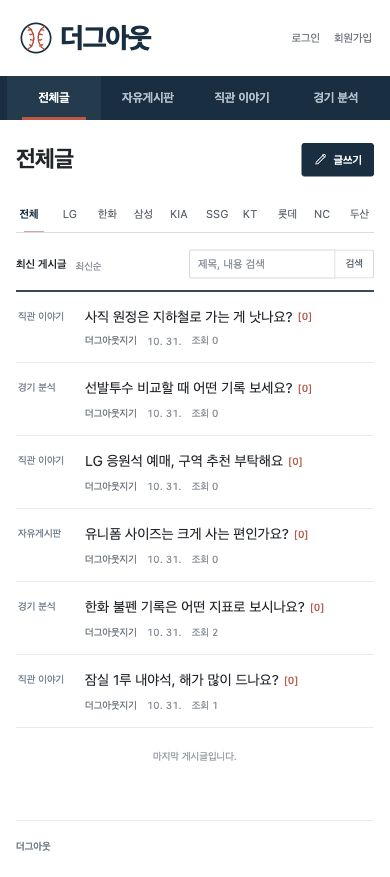
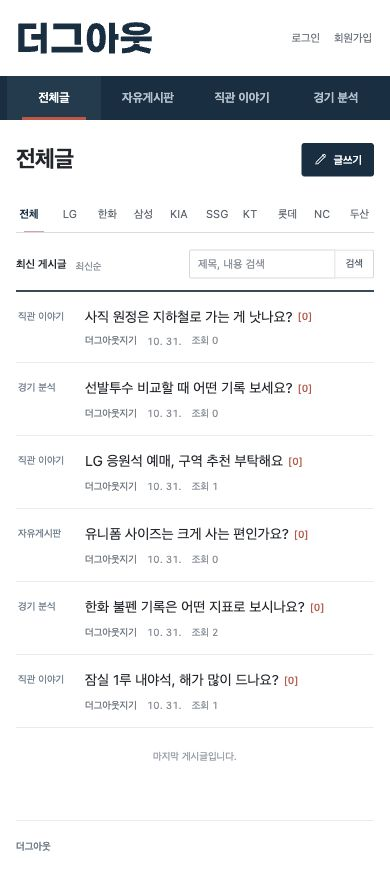
fix: 야구공 제거 및 Gmarket Sans 글자 로고 적용

Changed region(s): [[0.0308, 0.0, 0.4, 0.0616]]

diff --git a/community-FE/js/baseball.js b/community-FE/js/baseball.js
@@ -129,7 +129,7 @@ function renderHeader() {
   const links = [["", "전체글"], ...Object.entries(boards)];
   document.querySelector("#site-header").className = "site-header";
   document.querySelector("#site-header").innerHTML = `<div class="header-inner">
-    <a class="brand" href="/" aria-label="더그아웃 홈"><img src="/public/dugout.svg?v=20261031-3" alt=""><strong>더그아웃</strong></a>
+    <a class="brand" href="/" aria-label="더그아웃 홈"><img class="brand-wordmark" src="/public/dugout-wordmark.svg?v=20261031-4" alt="더그아웃" width="148" height="35"></a>
     <div class="account">${user ? `<a href="/html/modifyInfo.html">${escape(user.nickname)}</a><button id="logout" type="button">로그아웃</button>` : '<a href="/html/login.html">로그인</a><a href="/html/signup.html">회원가입</a>'}</div>
     </div><div class="nav-band"><nav class="top-nav" aria-label="게시판">${links.map(([value, label]) => `<a href="${boardUrl(value)}" ${page === "home" && selectedBoard() === value ? 'class="active" aria-current="page"' : ""}>${label}</a>`).join("")}</nav></div>`;
   document.querySelector("#logout")?.addEventListener("click", () => {

diff --git a/community-FE/html/modifyInfo.html b/community-FE/html/modifyInfo.html
@@ -9,10 +9,14 @@
       content="자유게시판, 직관 이야기, 경기 분석을 나누는 야구 커뮤니티."
     />
     <title>더그아웃</title>
-    <link rel="icon" href="/public/dugout.svg?v=20261031-3" type="image/svg+xml" />
-    <link rel="stylesheet" href="/css/baseball.css?v=20261031-3" />
+    <link
+      rel="icon"
+      href="/public/dugout.svg?v=20261031-4"
+      type="image/svg+xml"
+    />
+    <link rel="stylesheet" href="/css/baseball.css?v=20261031-4" />
     <script src="/config.js"></script>
-    <script type="module" src="/js/baseball.js?v=20261031-3"></script>
+    <script type="module" src="/js/baseball.js?v=20261031-4"></script>
   </head>
   <body data-page="profile">
     <a class="skip-link" href="#main">본문으로 건너뛰기</a>

diff --git a/community-FE/html/modifyPassword.html b/community-FE/html/modifyPassword.html
@@ -9,10 +9,14 @@
       content="자유게시판, 직관 이야기, 경기 분석을 나누는 야구 커뮤니티."
     />
     <title>더그아웃</title>
-    <link rel="icon" href="/public/dugout.svg?v=20261031-3" type="image/svg+xml" />
-    <link rel="stylesheet" href="/css/baseball.css?v=20261031-3" />
+    <link
+      rel="icon"
+      href="/public/dugout.svg?v=20261031-4"
+      type="image/svg+xml"
+    />
+    <link rel="stylesheet" href="/css/baseball.css?v=20261031-4" />
     <script src="/config.js"></script>
-    <script type="module" src="/js/baseball.js?v=20261031-3"></script>
+    <script type="module" src="/js/baseball.js?v=20261031-4"></script>
   </head>
   <body data-page="profile">
     <a class="skip-link" href="#main">본문으로 건너뛰기</a>

diff --git a/community-FE/html/signup.html b/community-FE/html/signup.html
@@ -9,10 +9,14 @@
       content="자유게시판, 직관 이야기, 경기 분석을 나누는 야구 커뮤니티."
     />
     <title>더그아웃</title>
-    <link rel="icon" href="/public/dugout.svg?v=20261031-3" type="image/svg+xml" />
-    <link rel="stylesheet" href="/css/baseball.css?v=20261031-3" />
+    <link
+      rel="icon"
+      href="/public/dugout.svg?v=20261031-4"
+      type="image/svg+xml"
+    />
+    <link rel="stylesheet" href="/css/baseball.css?v=20261031-4" />
     <script src="/config.js"></script>
-    <script type="module" src="/js/baseball.js?v=20261031-3"></script>
+    <script type="module" src="/js/baseball.js?v=20261031-4"></script>
   </head>
   <body data-page="signup">
     <a class="skip-link" href="#main">본문으로 건너뛰기</a>

diff --git a/community-FE/html/board-write.html b/community-FE/html/board-write.html
@@ -9,10 +9,14 @@
       content="자유게시판, 직관 이야기, 경기 분석을 나누는 야구 커뮤니티."
     />
     <title>더그아웃</title>
-    <link rel="icon" href="/public/dugout.svg?v=20261031-3" type="image/svg+xml" />
-    <link rel="stylesheet" href="/css/baseball.css?v=20261031-3" />
+    <link
+      rel="icon"
+      href="/public/dugout.svg?v=20261031-4"
+      type="image/svg+xml"
+    />
+    <link rel="stylesheet" href="/css/baseball.css?v=20261031-4" />
     <script src="/config.js"></script>
-    <script type="module" src="/js/baseball.js?v=20261031-3"></script>
+    <script type="module" src="/js/baseball.js?v=20261031-4"></script>
   </head>
   <body data-page="write">
     <a class="skip-link" href="#main">본문으로 건너뛰기</a>

diff --git a/community-FE/html/login.html b/community-FE/html/login.html
@@ -9,10 +9,14 @@
       content="자유게시판, 직관 이야기, 경기 분석을 나누는 야구 커뮤니티."
     />
     <title>더그아웃</title>
-    <link rel="icon" href="/public/dugout.svg?v=20261031-3" type="image/svg+xml" />
-    <link rel="stylesheet" href="/css/baseball.css?v=20261031-3" />
+    <link
+      rel="icon"
+      href="/public/dugout.svg?v=20261031-4"
+      type="image/svg+xml"
+    />
+    <link rel="stylesheet" href="/css/baseball.css?v=20261031-4" />
     <script src="/config.js"></script>
-    <script type="module" src="/js/baseball.js?v=20261031-3"></script>
+    <script type="module" src="/js/baseball.js?v=20261031-4"></script>
   </head>
   <body data-page="login">
     <a class="skip-link" href="#main">본문으로 건너뛰기</a>

diff --git a/community-FE/html/board-modify.html b/community-FE/html/board-modify.html
@@ -9,10 +9,14 @@
       content="자유게시판, 직관 이야기, 경기 분석을 나누는 야구 커뮤니티."
     />
     <title>더그아웃</title>
-    <link rel="icon" href="/public/dugout.svg?v=20261031-3" type="image/svg+xml" />
-    <link rel="stylesheet" href="/css/baseball.css?v=20261031-3" />
+    <link
+      rel="icon"
+      href="/public/dugout.svg?v=20261031-4"
+      type="image/svg+xml"
+    />
+    <link rel="stylesheet" href="/css/baseball.css?v=20261031-4" />
     <script src="/config.js"></script>
-    <script type="module" src="/js/baseball.js?v=20261031-3"></script>
+    <script type="module" src="/js/baseball.js?v=20261031-4"></script>
   </head>
   <body data-page="edit">
     <a class="skip-link" href="#main">본문으로 건너뛰기</a>

diff --git a/community-FE/html/board.html b/community-FE/html/board.html
@@ -9,10 +9,14 @@
       content="자유게시판, 직관 이야기, 경기 분석을 나누는 야구 커뮤니티."
     />
     <title>더그아웃</title>
-    <link rel="icon" href="/public/dugout.svg?v=20261031-3" type="image/svg+xml" />
-    <link rel="stylesheet" href="/css/baseball.css?v=20261031-3" />
+    <link
+      rel="icon"
+      href="/public/dugout.svg?v=20261031-4"
+      type="image/svg+xml"
+    />
+    <link rel="stylesheet" href="/css/baseball.css?v=20261031-4" />
     <script src="/config.js"></script>
-    <script type="module" src="/js/baseball.js?v=20261031-3"></script>
+    <script type="module" src="/js/baseball.js?v=20261031-4"></script>
   </head>
   <body data-page="post">
     <a class="skip-link" href="#main">본문으로 건너뛰기</a>

diff --git a/community-FE/html/index.html b/community-FE/html/index.html
@@ -9,10 +9,14 @@
       content="자유게시판, 직관 이야기, 경기 분석을 나누는 야구 커뮤니티."
     />
     <title>더그아웃</title>
-    <link rel="icon" href="/public/dugout.svg?v=20261031-3" type="image/svg+xml" />
-    <link rel="stylesheet" href="/css/baseball.css?v=20261031-3" />
+    <link
+      rel="icon"
+      href="/public/dugout.svg?v=20261031-4"
+      type="image/svg+xml"
+    />
+    <link rel="stylesheet" href="/css/baseball.css?v=20261031-4" />
     <script src="/config.js"></script>
-    <script type="module" src="/js/baseball.js?v=20261031-3"></script>
+    <script type="module" src="/js/baseball.js?v=20261031-4"></script>
   </head>
   <body data-page="home">
     <a class="skip-link" href="#main">본문으로 건너뛰기</a>

diff --git a/community-FE/css/baseball.css b/community-FE/css/baseball.css
@@ -134,14 +134,9 @@ button svg {
   gap: 9px;
 }
 .brand img {
-  width: 43px;
-  height: 43px;
-}
-.brand strong {
-  font-size: 31px;
-  letter-spacing: -1.7px;
-  font-weight: 800;
-  color: var(--navy);
+  display: block;
+  width: 148px;
+  height: auto;
 }
 .account {
   margin-left: auto;
@@ -965,12 +960,9 @@ button svg {
     gap: 6px;
   }
   .brand img {
-    width: 36px;
-    height: 36px;
-  }
-  .brand strong {
-    font-size: 28px;
-    letter-spacing: -1.6px;
+    display: block;
+    width: 134px;
+    height: auto;
   }
   .account {
     gap: 14px;
@@ -1195,9 +1187,6 @@ button svg {
   }
   .account {
     gap: 10px;
-  }
-  .brand strong {
-    font-size: 25px;
   }
 }
 @media (prefers-reduced-motion: reduce) {

diff --git a/docs/design.md b/docs/design.md
@@ -4,10 +4,16 @@
 
 더그아웃은 게시글을 읽고 찾는 일을 중심으로 구성했습니다. 넓은 카드와 본문 미리보기 대신 번호, 게시판, 제목, 작성자, 날짜, 조회, 공감을 열로 정렬합니다. 댓글 수는 제목 바로 옆에 표시합니다. 모바일에서는 번호와 일부 열을 숨기고 제목 아래에 작성 정보를 보여줍니다.
 
-화면은 흰색이며, 메뉴에는 남색, 댓글 수와 선택 표시에 붉은색을 조금 사용합니다. 로고는 야구공을 모티브로 구성했습니다. 로그인과 회원가입은 상단에서 같은 텍스트 링크로 표시합니다. 오른쪽에는 로그인과 게시판 이동 기능을 둡니다.
+화면은 흰색이며, 메뉴에는 남색, 댓글 수와 선택 표시에 붉은색을 조금 사용합니다. 로고는 Gmarket Sans Bold를 사용한 글자 로고입니다. 로그인과 회원가입은 상단에서 같은 텍스트 링크로 표시합니다. 오른쪽에는 로그인과 게시판 이동 기능을 둡니다.
 
 게시판은 저장된 분류로 조회하며 검색도 선택한 게시판 안에서 수행합니다. 검색 초기화 후에도 분류를 유지합니다. 모든 브라우저 탭 제목은 더그아웃으로 고정했습니다.
 
 참고 자료: [NN/g 상태 표시](https://www.nngroup.com/articles/visibility-system-status/), [Stack Overflow 빈 결과 안내](https://stackoverflow.design/system/components/empty-states/).
 
 README 구성은 [Discourse](https://github.com/discourse/discourse/blob/main/README.md)와 [Roblox Foreman](https://github.com/Roblox/foreman/blob/main/README.md)의 개발, 실행 안내 구성을 참고했습니다.
+
+## 로고 서체
+
+[G마켓 공식 배포 페이지](https://corp.gmarket.com/fonts/)의 Gmarket Sans Bold를 사용합니다. 장식 아이콘 없이 더그아웃 네 글자를 원래 글자 폭으로 배치했습니다. 로고는 SVG로 저장해 웹폰트 로딩이나 운영체제의 대체 글꼴에 영향을 받지 않습니다. 브라우저 아이콘도 같은 서체의 더 한 글자를 사용합니다.
+
+폰트 파일 자체는 배포하지 않으며, 출처 기록을 위해 공식 폰트에 포함된 [OFL 라이선스](../community-FE/public/licenses/GmarketSans-OFL.txt)를 함께 보관합니다.
